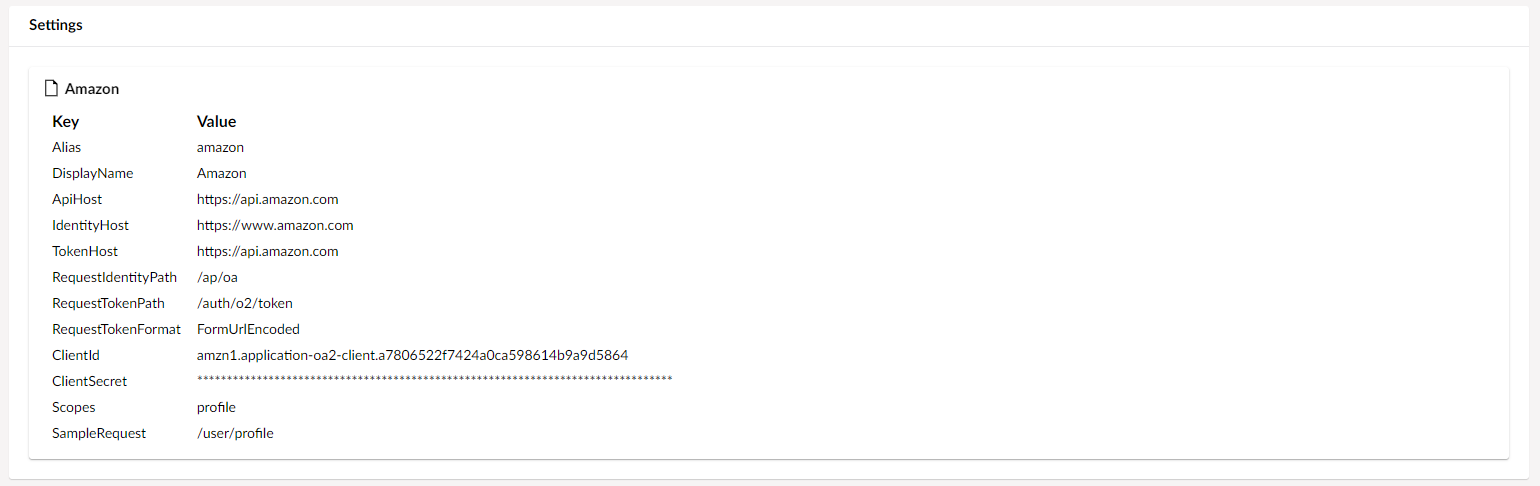
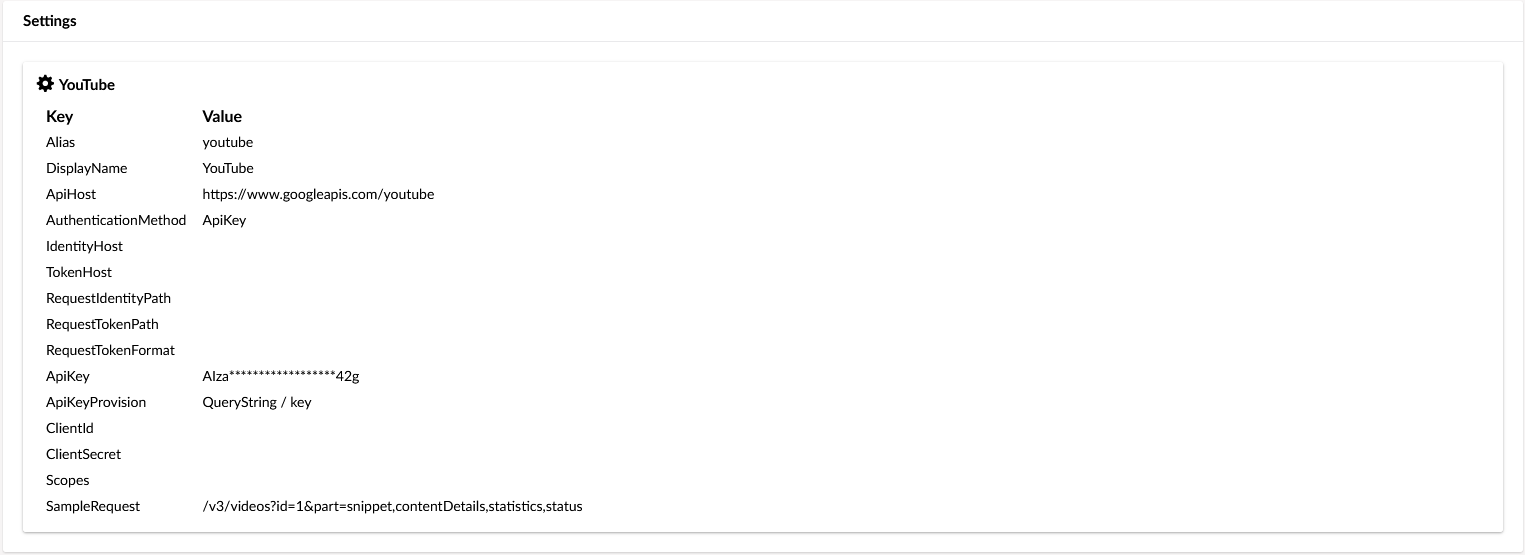
Authorized services updated docs.

diff --git a/marketplace-and-integrations/packages/authorized-services.md b/marketplace-and-integrations/packages/authorized-services.md
@@ -36,6 +36,9 @@ Each tree entry has a management screen where an administrator can authenticate 
 
 ![authorized-screen](images/authorized-screen.png)
 
+If the service is configured to allow the addition of access tokens manually, using the `CanManuallyProvideToken` setting, a new section will be available for providing an access token.
+![provide-token](images/provide-token.png)
+
 ### IAuthorizedServiceCaller interface
 
 Secondly, the developer has access to an interface - `IAuthorizedServiceCaller` - that they can inject instances of and use to make authorized requests to the service's API.
@@ -44,13 +47,24 @@ Using a settings screen the administrator can review the service configuration.
 
 ![settings-screen](images/settings-screen.png)
 
+Depending on the authentication method of the service,
+- `OAuth1`
+- `OAuth2` (default)
+- `ApiKey`
+
+the interface provides two methods for retrieving the value of the access token or the API key:
+- `GetToken`
+- `GetApiKey` 
+
 ## Usage
 
 In the following, you can learn more about how to use the Umbraco Authorized Services package.
 
 ### App Creation
 
-Services that this package is intended to support will offer an OAuth authentication and authorization flow against an "app". The developer will need to create this "app" with the service.  By doing this, information such as the "client ID" and "client secret" can be applied to the configuration.
+Services that this package is intended to support will offer an OAuth2 default authentication and authorization flow against an "app". The developer will need to create this "app" with the service.  By doing this, information such as the "client ID" and "client secret" can be applied to the configuration.
+
+In addition, the package supports integration with OAuth1 or Api key based authentication and authorization services.
 
 ### Installation
 
@@ -73,6 +87,8 @@ An example of doing this through the `appSettings.json` file is shown below. Oth
         {
           "<serviceAlias>": {
             "DisplayName": "",
+            "AuthenticationMethod": "",
+            "CanManuallyProvideToken": true|false,
             "ApiHost": "",
             "IdentityHost": "",
             "TokenHost": "",
@@ -82,6 +98,11 @@ An example of doing this through the `appSettings.json` file is shown below. Oth
             "JsonSerializer": "",
             "RequestTokenFormat": "",
             "AuthorizationRequestRequiresAuthorizationHeaderWithBasicToken": true|false,
+            "ApiKey": "",
+            "ApiKeyProvision": {
+              "Method": "",
+              "Key": ""
+            },
             "ClientId": "",
             "ClientSecret": "",
             "UseProofKeyForCodeExchange": true|false,
@@ -108,6 +129,8 @@ Not all values are required for all services.  Those that are required are indic
 | Element                                                       | Description                                                                                                                                                                                                                                                  | Required? | Example                                    |
 |---------------------------------------------------------------|--------------------------------------------------------------------------------------------------------------------------------------------------------------------------------------------------------------------------------------------------------------|-----------|--------------------------------------------|
 | DisplayName                                                   | Provides a friendly name for the service used for identification in the user interface.                                                                                                                                                                      | Yes       |                                            |
+| CanManuallyProvideToken                                                   | Toggles an UI section in the backoffice for manually providing an access token.                                                                                                                                                                     | No       |                                            |
+| AuthenticationMethod                                                   | An enum value that controls the type of authentication. `OAuth2` is the default value; other available options are `OAuth1` and `ApiKey`.                                                                                                                                                               | No       |                                            |
 | ApiHost                                                       | The host name for the service API that will be called to deliver business functionality.                                                                                                                                                                     | Yes       | `https://api.github.com`                   |
 | IdentityHost                                                  | The host name for the service's authentication endpoint, used to initiate the authorization of the service by asking the user to login.                                                                                                                      | Yes       | `https://github.com`                       |
 | TokenHost                                                     | Some providers make available a separately hosted service for handling requests for access tokens. If that's the case, it can be provided here. If not provided, the value of `IdentityHost` is used.                                                        | No        |                                            |
@@ -117,6 +140,8 @@ Not all values are required for all services.  Those that are required are indic
 | RequestTokenFormat                                            | An enum value that controls how the request to retrieve an access token is formatted. Options are `Querystring` and `FormUrlEncoded`. `Querystring` is the default value.                                                                                    | No        |                                            |
 | JsonSerializer                                                | An enum value that defines the JSON serializer to use when creating requests and deserializing responses. Options are `Default` and `JsonNet` and `SystemTextJson` as described below. If not provided, `Default` is used.                                   | No        |                                            |
 | AuthorizationRequestRequiresAuthorizationHeaderWithBasicToken | This flag indicates whether the basic token should be included in the request for an access token. If `true`, a base64 encoding of `<clientId>:<clientSecret>` will be added to the authorization header. Default is `false`.                                | No        |                                            |
+| ApiKey                                                   | Provides the service's API key, if `"AuthenticationMethod": "ApiKey"`                                                                                                                                                              | No       |                                            |
+| ApiKeyProvision                                                   | Provides an object that dictates how the API key will be included with each request. This is configured using the `Method`(pass the API key as `QueryString` or `HttpHeader`) and `Key` (name of the key used to include the API key) properties.                                                                                                                                                                  | No       |                                            |
 | ClientId                                                      | This value will be retrieved from the registered service app.                                                                                                                                                                                                | Yes       |                                            |
 | ClientSecret                                                  | This value will be retrieved from the registered service app.  As the name suggests, it should be kept secret and so is probably best not added directly to `appSettings.json` and checked into source control.                                              | Yes       |                                            |
 | Scopes                                                        | This value will be configured on the service app and retrieved from there. Best practice is to define only the set of permissions that the integration will need.                                                                                            | Yes       | `repo`                                     |
@@ -189,6 +214,14 @@ Finally, there are convenience extension methods available for each of the commo
 
 ```csharp
 Task<TResponse> GetRequestAsync<TResponse>(string serviceAlias, string path);
+```
+
+Depending on the configured authentication method, there are two methods that can be used to retrieve the access token or the API key:
+
+```csharp
+string? GetToken(string serviceAlias);
+
+string? GetApiKey(string serviceAlias);
 ```
 
 ## Verified Providers
@@ -803,6 +836,36 @@ As integrations with more providers are successfully completed, we plan to maint
   "ClientSecret": "",
   "Scopes": "",
   "SampleRequest": "/openid/v1/userinfo"
+}
+```
+
+</details>
+
+<details>
+
+<summary>YouTube</summary>
+
+
+```json
+"youtube": {
+  "DisplayName": "YouTube",
+  "AuthenticationMethod": "ApiKey",
+  "ApiHost": "https://www.googleapis.com/youtube",
+  "IdentityHost": "",
+  "TokenHost": "",
+  "RequestIdentityPath": "",
+  "AuthorizationUrlRequiresRedirectUrl": true,
+  "RequestTokenPath": "",
+  "RequestTokenFormat": "",
+  "ApiKey": "[youtube-api-key]",
+  "ApiKeyProvision": {
+    "Method": "QueryString",
+    "Key": "key"
+  },
+  "ClientId": "",
+  "ClientSecret": "",
+  "Scopes": "",
+  "SampleRequest": "/v3/videos?id=[youtube-video-id]&part=snippet,contentDetails,statistics,status"
 }
 ```
 
